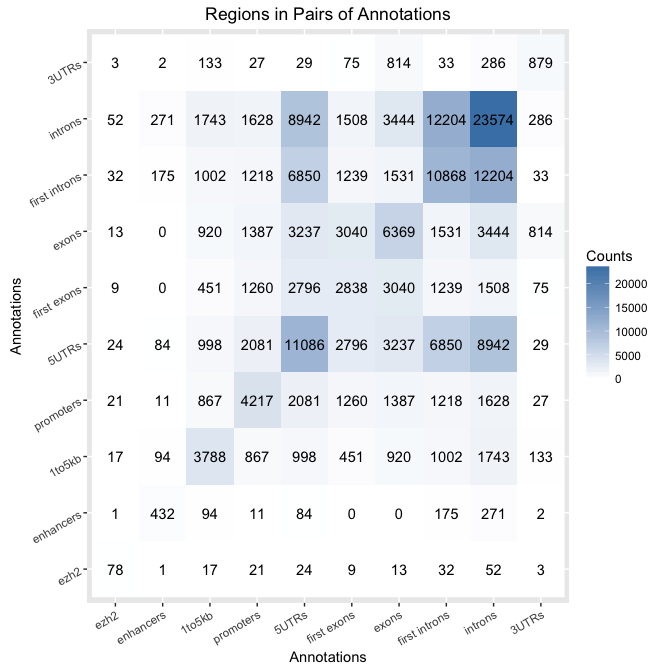
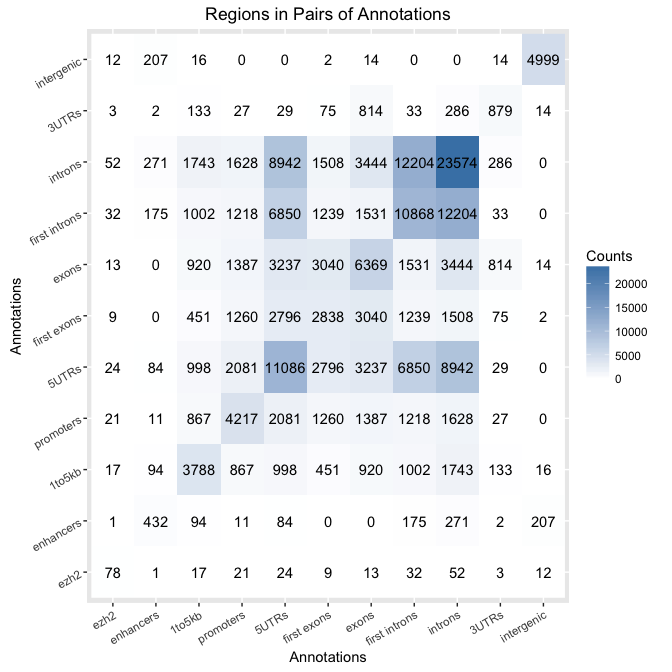
Update README to include intergenic annotations

diff --git a/README.md b/README.md
@@ -111,7 +111,7 @@ Users may select annotations a la carte via the accessors listed with `supported
 
 # Select annotations for intersection with regions
 # Note inclusion of custom annotation, and use of shortcuts
-annots = c('hg19_cpgs', 'hg19_basicgenes',
+annots = c('hg19_cpgs', 'hg19_basicgenes', 'hg19_knownGenes_intergenic',
   'hg19_enhancers_fantom', 'hg19_knownGenes_firstexons',
   'hg19_knownGenes_firstintrons', 'hg19_custom_ezh2')
 # Intersect the regions we read in with the annotations
@@ -208,7 +208,8 @@ annots_order = c(
   'hg19_knownGenes_exons',
   'hg19_knownGenes_firstintrons',
   'hg19_knownGenes_introns',
-  'hg19_knownGenes_3UTRs')
+  'hg19_knownGenes_3UTRs',
+  'hg19_knownGenes_intergenic')
 dm_vs_kg_annotations = visualize_annotation(
   annotated_regions = dm_annotated,
   annotation_order = annots_order,
@@ -234,7 +235,8 @@ annots_order = c(
   'hg19_knownGenes_exons',
   'hg19_knownGenes_firstintrons',
   'hg19_knownGenes_introns',
-  'hg19_knownGenes_3UTRs')
+  'hg19_knownGenes_3UTRs',
+  'hg19_knownGenes_intergenic')
 dm_vs_coannotations = visualize_coannotations(
   annotated_regions = dm_annotated,
   annotation_order = annots_order,
@@ -255,7 +257,8 @@ dm_vs_regions_annot = visualize_numerical(
   x = 'mu0',
   facet = 'annot_type',
   facet_order = c('hg19_knownGenes_1to5kb','hg19_knownGenes_promoters',
-    'hg19_knownGenes_5UTRs','hg19_knownGenes_3UTRs', 'hg19_custom_ezh2'),
+    'hg19_knownGenes_5UTRs','hg19_knownGenes_3UTRs', 'hg19_custom_ezh2',
+    'hg19_knownGenes_intergenic'),
   bin_width = 5,
   plot_title = 'Group 0 Region Methylation In Genes',
   x_label = 'Group 0')
@@ -382,7 +385,8 @@ x_order = c(
   'hg19_knownGenes_5UTRs',
   'hg19_knownGenes_exons',
   'hg19_knownGenes_introns',
-  'hg19_knownGenes_3UTRs')
+  'hg19_knownGenes_3UTRs',
+  'hg19_knownGenes_intergenic')
 # The orders for the fill labels.
 fill_order = c(
   'hyper',
